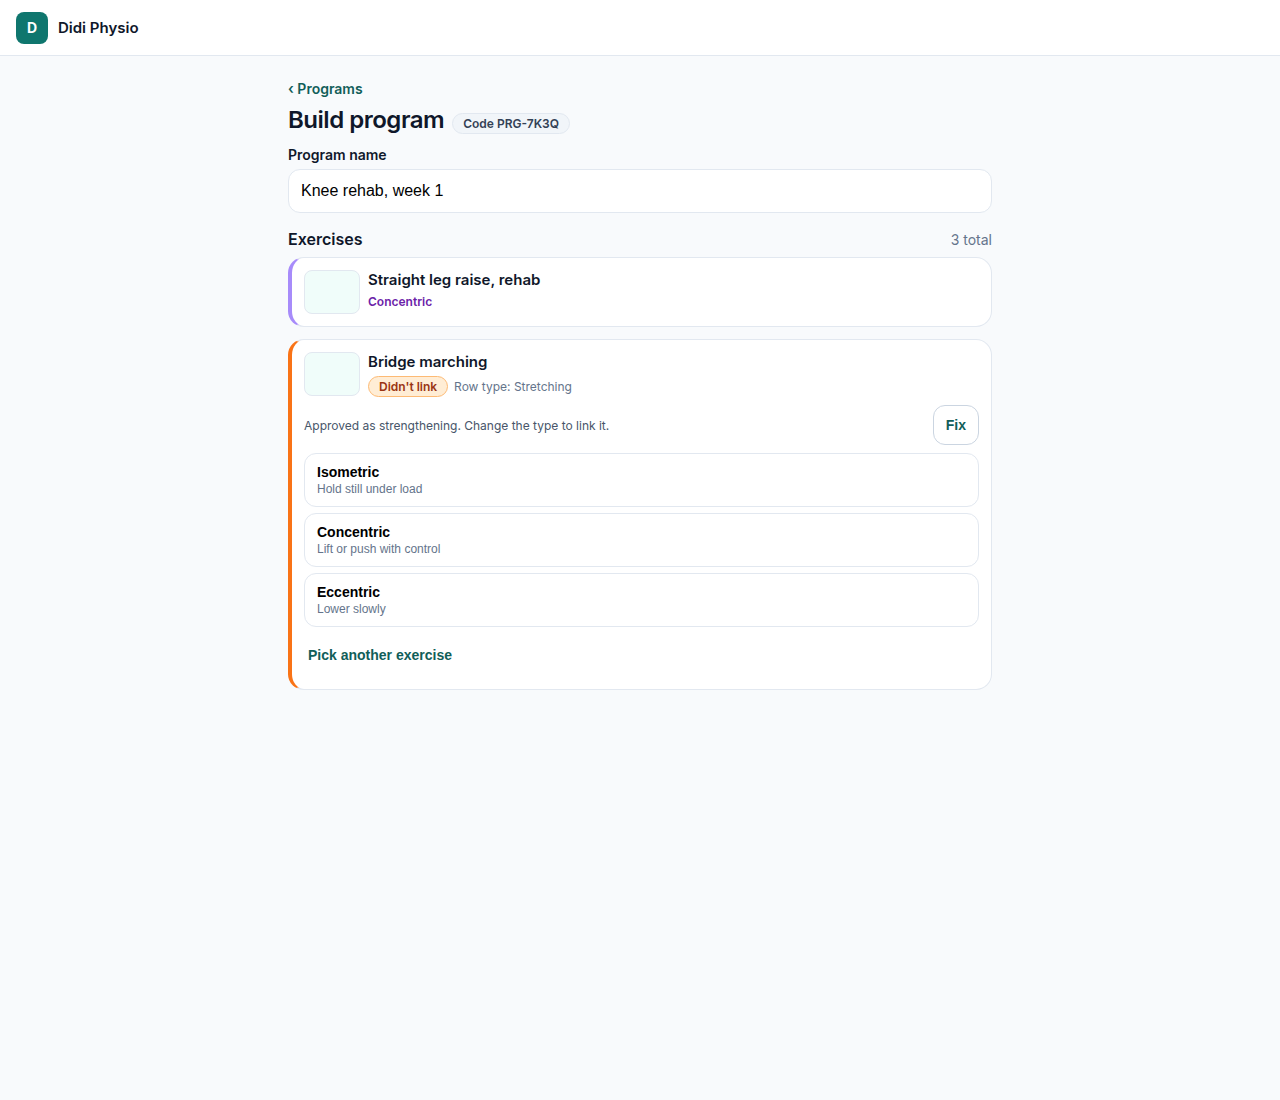
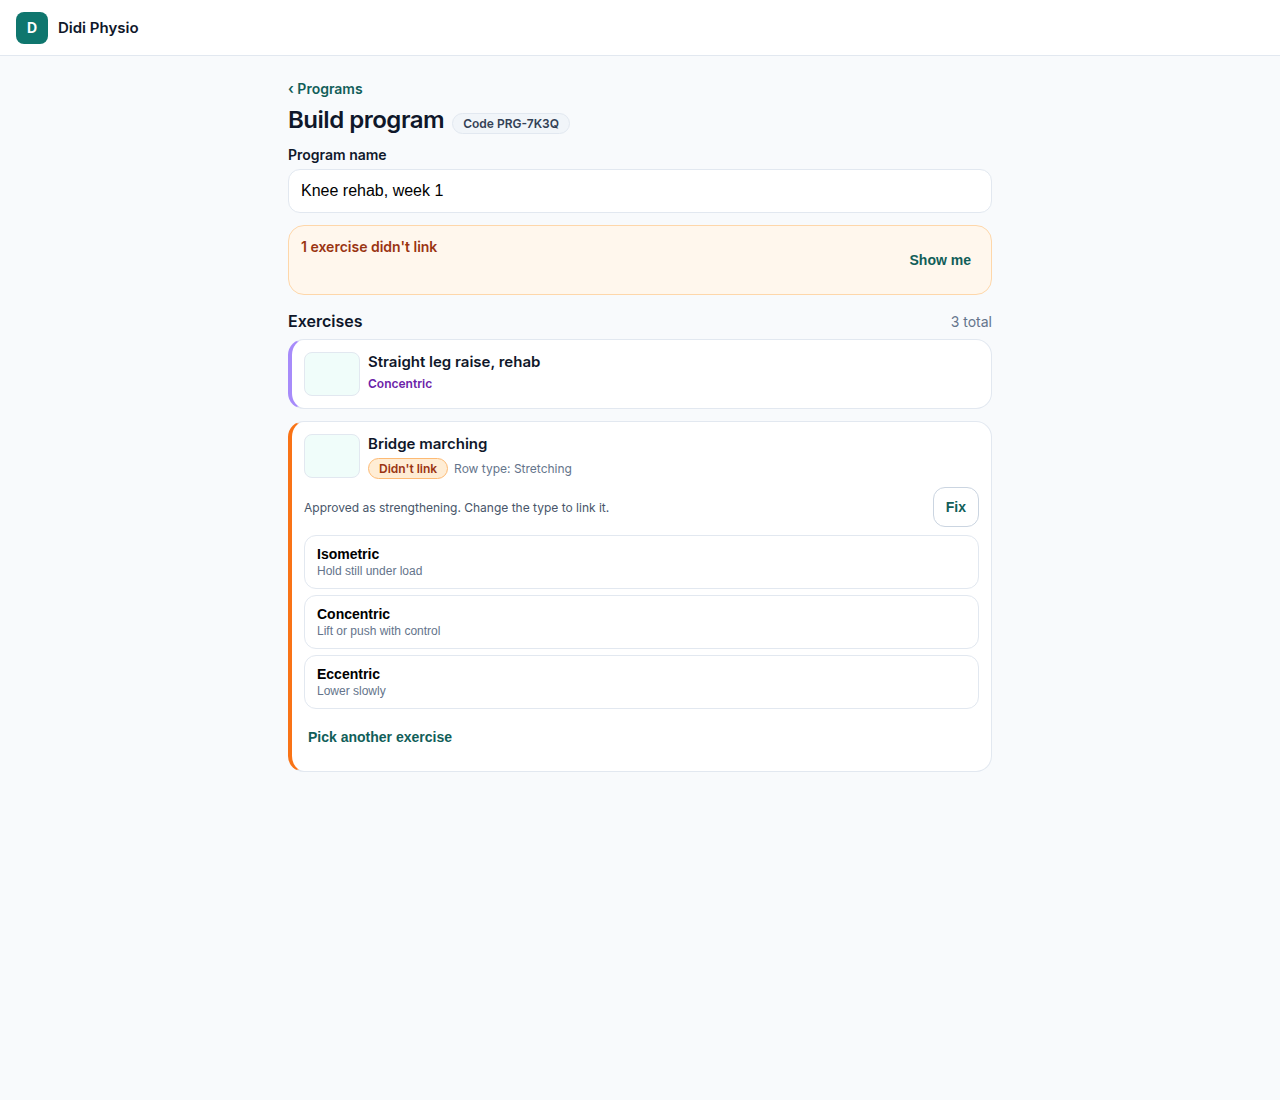
design(DIDI-1105): publish notice T18/T19 and mockup 02 follow-up
Fill the DIDI-1186 publish notice body for mixed and
didn't-link-only lists (T18, T19) and record Fix for {name},
per DIDI-1105 comment a3f73814. Re-capture mockup 02 with the
builder banner visible. Add a trailing newline to the mockups
.gitignore. Update the programs States overview row.

No product behaviour change: publish stays blocked while any
awaiting_approval or type_mismatch row remains.

diff --git a/design/app/programs/spec.md b/design/app/programs/spec.md
@@ -30,7 +30,7 @@ Diadem approved this revision on Oct 25, 2026, 7:22 PM ET ("v12 is approved"), i
 | Library update prompt | "Library update for {exercise}": "Programs aren't updated on their own. Update it, or keep your original." with "Update to vN" / "Keep my original" |
 | Publish to the live link? | Program card (name, code, exercise count); "Program name (required)" field on a first publish or when the program has no name; "First publish" or "Changes since {time}"; Share link with Copy (or "No link yet..." on a first publish or closed link); Link expires (1 week, 30 days, 90 days, 1 year default, Never, Pick a date); "Publish now" / "Not yet" |
 | Name required | Empty name: red field, "Add a program name to publish. Use something you will recognise, not the patient's name.", Publish now disabled |
-| Placeholders block publish (DIDI-1186) | Any exercise row still a placeholder ("Pending review"): the Publish sheet shows an amber notice listing each placeholder with "Review draft" and Remove, and Publish now is disabled. Same treatment on first publish, republish and Use for a patient. See "Publish blocked by placeholders (DIDI-1186)" below |
+| Placeholders block publish (DIDI-1186) | Any exercise row still a placeholder: the Publish sheet shows an amber notice listing each placeholder, and Publish now is disabled. **awaiting_approval** rows use **Pending review**, **Review draft**, and Remove; **type_mismatch** rows use **Didn't link**, **Fix**, and Remove ([program-type-mismatch/spec.md](../program-type-mismatch/spec.md)). Notice body wording depends on list mix (**T18**, **T19**, `a3f73814`). Same treatment on first publish, republish and Use for a patient. See "Publish blocked by placeholders (DIDI-1186)" below |
 | Use for a patient | From a routine: the copy is created (code, routine name prefilled) and the practitioner lands on the Publish sheet. Publish now creates the link; Not yet keeps it as a draft ("Kept as a draft. Find it in Programs by name or code {code}.") and it shows in Programs as "Not published yet" |
 | Sent copy | Opening a sent program from Programs edits only that patient's copy |
 | Delete | Sheet "Delete this program?": moves to Recently deleted, restorable for 30 days, closes its share link |
@@ -210,8 +210,10 @@ The existing "Publish to the live link?" sheet (WebAppClickableConcept.tsx :1381
 
 Notice contents, in order:
 1. Heading with the alert icon (I.alert): "Approve or remove placeholders to publish".
-2. Body: "{n} exercises are placeholders. Approve each draft or remove it from this program, then publish." For one: "One exercise is a placeholder. Approve each draft or remove it from this program, then publish."
-   **Open:** When the list mixes `awaiting_approval` and `type_mismatch` placeholders, this body may read awkwardly for didn't-link rows. Do not reword until Diadem approves; see [program-type-mismatch/spec.md](../program-type-mismatch/spec.md).
+2. Body (depends on placeholder mix; publish stays blocked until the list is empty):
+   - **Awaiting only** (every row `awaiting_approval`): approved Nov 8 body unchanged. "{n} exercises are placeholders. Approve each draft or remove it from this program, then publish." For one: "One exercise is a placeholder. Approve each draft or remove it from this program, then publish."
+   - **Mixed** (at least one `awaiting_approval` and at least one `type_mismatch`): same approved body as above, then a second sentence: **Fix or remove the exercises that didn't link.** (**T18**, **Designer pick**, `a3f73814` on DIDI-1105).
+   - **Didn't-link only** (every row `type_mismatch`, no `awaiting_approval`): **Fix or remove the exercises that didn't link, then publish.** (**T19**, **Designer pick**, `a3f73814` on DIDI-1105).
 3. One list item per placeholder, in **builder order**. Same row layout for every placeholder. Badge and link action depend on `placeholder_state` ([program-type-mismatch/spec.md](../program-type-mismatch/spec.md), **Designer pick** `b650a678` on DIDI-1105): **awaiting_approval** keeps **Pending review**, **Review draft**, and Remove; **type_mismatch** shows **Didn't link**, **Fix** (in the **Review draft** slot), and Remove. **Fix** closes the sheet and opens the builder with that row's **Fix** panel expanded.
 4. Republish only: "Not live yet. Your patient still sees the version published {pub.at}."
 
@@ -244,7 +246,7 @@ Tokens are existing ones from design/reference/web-app/generated/WebAppClickable
 - **Focus after Remove:** moves to the next placeholder's "Review draft" or "Fix" (or the previous one if it was the last row). When the list empties, focus moves to the notice heading ("No placeholders left. You can publish.", `tabIndex={-1}`) so the practitioner hears the state, then continues to Publish now.
 - **Focus after Review draft:** the draft opens for review. On return to the sheet, focus goes back to that row's "Review draft" if it is still a placeholder; if it was approved, focus follows the Remove rule above.
 - **Focus after Fix** (`type_mismatch` only, **Designer pick**, `b650a678`): the sheet closes and focus moves to that row's **Fix** control in the builder with the inline panel open. Returning to the publish sheet later follows the existing sheet open focus rule.
-- **Accessible names:** "Review draft for {name}"; **Fix for {name}** on `type_mismatch` rows (**Designer pick**, `b650a678`); Remove uses the existing "Remove {name}"; the notice is named by its heading "Approve or remove placeholders to publish" (or "No placeholders left. You can publish.").
+- **Accessible names:** "Review draft for {name}"; **Fix for {name}** on `type_mismatch` rows (**Designer pick**, `a3f73814`); Remove uses the existing "Remove {name}"; the notice is named by its heading "Approve or remove placeholders to publish" (or "No placeholders left. You can publish.").
 - No automatic approval, omission or publication anywhere in this flow.
 
 ### Approved copy (Diadem, Nov 8, 2026, 1:56 PM ET)
@@ -252,12 +254,14 @@ Tokens are existing ones from design/reference/web-app/generated/WebAppClickable
 | Element | String |
 | -- | -- |
 | Notice heading | Approve or remove placeholders to publish |
-| Notice body, {n} | {n} exercises are placeholders. Approve each draft or remove it from this program, then publish. |
-| Notice body, one | One exercise is a placeholder. Approve each draft or remove it from this program, then publish. |
+| Notice body, {n} (awaiting only) | {n} exercises are placeholders. Approve each draft or remove it from this program, then publish. |
+| Notice body, one (awaiting only) | One exercise is a placeholder. Approve each draft or remove it from this program, then publish. |
+| Notice body, mixed | Approved body above, then **Fix or remove the exercises that didn't link.** (**T18**, **Designer pick**, `a3f73814`) |
+| Notice body, didn't-link only | Fix or remove the exercises that didn't link, then publish. (**T19**, **Designer pick**, `a3f73814`) |
 | Row action | Review draft (`awaiting_approval` only) |
 | Row action, accessible name | Review draft for {name} |
 | Row action (`type_mismatch`) | Fix (reuses builder **Fix**, [program-type-mismatch/spec.md](../program-type-mismatch/spec.md) **T4**). **Designer pick**, `b650a678` |
-| Row action, accessible name (`type_mismatch`) | Fix for {name}. **Designer pick**, `b650a678` |
+| Row action, accessible name (`type_mismatch`) | Fix for {name}. **Designer pick**, `a3f73814` |
 | After a removal (live region) | Removed {name} from this program. |
 | List empty | No placeholders left. You can publish. |
 
@@ -1084,7 +1088,8 @@ Not printed (DIDI-1192, CTO, Nov 9, 2026): "This link works until {exp.date}." a
 
 ## Changes
 
-- **Nov 21, 2026**: DIDI-1105 PR #142 QA R1. Publish notice: `type_mismatch` rows use **Didn't link**, **Fix**, and Remove in builder order (**Designer pick**, `b650a678`); notice body **Open** when mixed. https://linear.app/didi-build/issue/DIDI-1105
+- **Nov 21, 2026**: DIDI-1105 follow-up. Publish notice body **T18** / **T19** (`a3f73814`); States overview lists both placeholder kinds. https://linear.app/didi-build/issue/DIDI-1105
+- **Nov 21, 2026**: DIDI-1105 PR #142 QA R1. Publish notice: `type_mismatch` rows use **Didn't link**, **Fix**, and Remove in builder order (**Designer pick**, `b650a678`). https://linear.app/didi-build/issue/DIDI-1105
 - **Nov 21, 2026**: DIDI-1105 cross-reference. Programs list flags for type-mismatch placeholders ("1 exercise didn't link" / "{n} exercises didn't link") and builder behaviour live in [program-type-mismatch/spec.md](../program-type-mismatch/spec.md). https://linear.app/didi-build/issue/DIDI-1105
 - **Nov 10, 2026**: DIDI-1192. Diadem approved E7: "Yes, approve E7" (12:08 AM ET), and "Video", "Previous" and "Next" with the print detail (12:09 AM ET). The link page shows one carousel per exercise (the start to end loop, then Start, then End) with round dots, a play-triangle dot, a separate focus ring and subtle chevrons from 1024 px. On phone: title, carousel, dose, notes. From 1024 px: text left, carousel right, page 64rem (was 42rem). The dose is three lines with bold numbers, frequency last. Print and PDF: text, Start, End in three columns, "Images didn't load." across the image columns, no video, no controls, no expiry line. Missing start or end images block publish on the program and routine sheets, server-enforced, Remove only (CTO rulings, DIDI-1193; copy approved Nov 9, 11:31 AM ET). Supersedes variant D (Nov 9, 11:31 AM ET). https://linear.app/didi-build/issue/DIDI-1192, https://linear.app/didi-build/issue/DIDI-594
 

diff --git a/design/app/program-type-mismatch/spec.md b/design/app/program-type-mismatch/spec.md
@@ -48,6 +48,15 @@ Recorded under the standing rule above. Not Diadem's verbatim words.
 | Reverse mismatch reason (**T16**) | **Approved as stretching. Change the type to link it.** Mirrors approved **T3** |
 | Type choice accessible name | Link {exercise} as {type} |
 | **Show me** accessible name | Show me exercises that didn't link |
+
+### Designer picks (DIDI-1105 comment `a3f73814`)
+
+Recorded under the standing rule above. Not Diadem's verbatim words. No behaviour change: publish stays blocked while any placeholder or didn't-link row remains (DIDI-1186).
+
+| Topic | Designer pick (`a3f73814`) |
+| -- | -- |
+| Publish notice body, mixed list | Keep the approved DIDI-1186 notice body, then add second sentence **T18** |
+| Publish notice body, every row `type_mismatch` | Body is **T19** only (no approved draft-approval sentence) |
 | Publish sheet **Fix** accessible name | Fix for {name} (visible label **Fix**, **T4**) |
 
 ## API signal (DIDI-1106, not designed here)
@@ -90,6 +99,7 @@ Linked rows omit the field. Until this spec merged, `request_closed` had no UI (
 | `request_closed` | **Out of scope / unapproved UI.** Per DIDI-1106 comment `56b379c5`, render like `awaiting_approval` until a future spec covers it. No copy or layout for `request_closed` in this PR. |
 | No patient information | Same as programs spec. No patient names in banner, row, toast, or flag. |
 | Publish sheet **Fix** | For `type_mismatch` rows only (**Designer pick**, `b650a678`). Same slot and styling as **Review draft** on `awaiting_approval` rows. Closes the publish sheet and navigates to the builder with that row scrolled into view and **Fix** expanded. Remove unchanged. |
+| Publish notice body | See [programs/spec.md](../programs/spec.md#publish-blocked-by-placeholders-didi-1186). **Awaiting only:** approved Nov 8 body unchanged. **Mixed** (`awaiting_approval` and `type_mismatch`): approved body plus **T18** (**Designer pick**, `a3f73814`). **Every row `type_mismatch`:** **T19** only (**Designer pick**, `a3f73814`). |
 
 ### Example (documented in mockups)
 
@@ -137,6 +147,8 @@ Derived from revision `466879152478384129` (`SkippedRowCore.tsx`, `PhysioShell.t
 | T15 | {n} exercises didn't link | Programs list card flag (more than one) | 12:57 AM EST (`c8a1509f`) |
 | T16 | Approved as stretching. Change the type to link it. | Reason line (stretching approved, strengthening row). **Designer pick** (`b650a678`) | Nov 21, 2026 |
 | T17 | Fix | Publish sheet link action for `type_mismatch` rows (reuses builder **T4**). **Designer pick** (`b650a678`) | Nov 21, 2026 |
+| T18 | Fix or remove the exercises that didn't link. | Second sentence on publish notice body when the list is mixed | **Designer pick** (`a3f73814`) |
+| T19 | Fix or remove the exercises that didn't link, then publish. | Publish notice body when every placeholder row is `type_mismatch` | **Designer pick** (`a3f73814`) |
 
 Type names **Isometric**, **Concentric**, **Eccentric**, **Stretching** reuse existing copy (`TYPE_LABELS` / programs builder).
 
@@ -166,14 +178,14 @@ Reason lines: use **T3** when the approved exercise category is strengthening an
 | -- | -- |
 | `request_closed` row UI | Render like `awaiting_approval` per DIDI-1106 comment `56b379c5` until a separate design spec covers it. |
 
-### Accessible names (**Designer pick**, `b650a678`)
+### Accessible names
 
-| Control | Accessible name |
-| -- | -- |
-| Type choice (builder Fix panel) | Link {exercise} as {type} |
-| **Show me** (banner) | Show me exercises that didn't link |
-| **Fix** (publish sheet row) | Fix for {name} |
-| Programs list flag | Same as visible flag text (**T14** / **T15**) |
+| Control | Accessible name | Record |
+| -- | -- | -- |
+| Type choice (builder Fix panel) | Link {exercise} as {type} | **Designer pick** (`b650a678`) |
+| **Show me** (banner) | Show me exercises that didn't link | **Designer pick** (`b650a678`) |
+| **Fix** (publish sheet row) | Fix for {name} | **Designer pick** (`a3f73814`) |
+| Programs list flag | Same as visible flag text (**T14** / **T15**) | Locks **T14** / **T15** |
 
 ## Product direction alignment
 
@@ -205,6 +217,7 @@ Reason lines: use **T3** when the approved exercise category is strengthening an
 | -- | -- | -- |
 | Skipped row after approval | Looked like **Pending review** ("Placeholder. It links to the real exercise once you approve the draft.") even when the draft was already approved (baseline exploration) | `type_mismatch` rows show **Didn't link**, row type, reason (**T3** or **T16**), and **Fix** |
 | Publish sheet placeholder list | Every placeholder showed **Pending review** and **Review draft** (DIDI-1186) | `type_mismatch` rows show **Didn't link**, publish-sheet **Fix**, and **Remove** (**Designer pick**, `b650a678`) |
+| Publish notice body with didn't-link rows | Draft-approval body only (awkward for didn't-link rows until follow-up) | Mixed: approved body plus **T18**; all `type_mismatch`: **T19** (**Designer pick**, `a3f73814`) |
 | Practitioner feedback | None | Variant **B** banner plus compact row |
 | Banner body | Exploration proposed a second line about the patient seeing a placeholder | **Removed** in lock `7e4a9711`. Heading only (**T5** / **T6**) plus **Show me** |
 | Programs list | No flag for skipped link | Card flag reuses banner heading copy (**T14** / **T15**) |
@@ -220,7 +233,7 @@ Full-width phone captures (390 px). Desktop uses the same components in the prog
 | State | Phone (390 px) | Desktop (1280 px) | Notes |
 | -- | -- | -- | -- |
 | 01 builder banner plus compact row | [phone](mockups/01-builder-banner-phone.png) | (same layout; phone capture only) | Heading **T5** only plus **Show me**; no dropped banner body. Row **T1** to **T4**. Capture width 390 px. |
-| 02 fix expanded | [phone](mockups/02-builder-fix-expanded-phone.png) | [desktop](mockups/02-builder-fix-expanded-desktop.png) | **Fix** open; type choices **T8** to **T11** and **Pick another exercise**. Source layout: MagicPath revision `466879152478384129`. Re-capture with `mockups/capture-mockups.mjs` when the board changes. |
+| 02 fix expanded | [phone](mockups/02-builder-fix-expanded-phone.png) | [desktop](mockups/02-builder-fix-expanded-desktop.png) | **Fix** open with builder banner **T5** still visible; type choices **T8** to **T11** and **Pick another exercise**. Re-capture with `mockups/capture-mockups.mjs` when the board changes. |
 
 No gallery components in the Physio POC app ([DIDI-1105](https://linear.app/didi-build/issue/DIDI-1105) design-as-code exception).
 
@@ -235,7 +248,8 @@ No gallery components in the Physio POC app ([DIDI-1105](https://linear.app/didi
 7. Programs card flag reuses banner heading strings.
 8. Link toast with **Undo** restores skipped state.
 9. Publish sheet lists `type_mismatch` placeholders with **Didn't link**, publish-sheet **Fix**, and **Remove** (**Designer pick**, `b650a678`).
-10. Reverse mismatch reason **T16** and publish-sheet accessible names (**Designer pick**, `b650a678`).
+10. Reverse mismatch reason **T16** and builder or banner accessible names (**Designer pick**, `b650a678`).
+11. Publish notice body **T18** and **T19**; publish-sheet **Fix for {name}** (**Designer pick**, `a3f73814`).
 
 ## Build notes
 
@@ -247,6 +261,7 @@ No gallery components in the Physio POC app ([DIDI-1105](https://linear.app/didi
 
 ## Changes
 
+- **Nov 21, 2026**: DIDI-1105 follow-up (`design/DIDI-1105-followup`). Publish notice **T18** and **T19**; **Fix for {name}** via `a3f73814`. Mockup 02 with banner visible. https://linear.app/didi-build/issue/DIDI-1105
 - **Nov 21, 2026**: DIDI-1105 PR #142 QA R1. Publish-sheet **Fix** (`b650a678`); **T16** and a11y picks cite `b650a678`; banner body drop cites `7e4a9711`; **T14** at 12:57 AM EST (`c8a1509f`); mockups 01 and 02 re-rendered at 390 px (and 02 at 1280 px). https://linear.app/didi-build/issue/DIDI-1105
 - **Nov 21, 2026**: DIDI-1105 follow-up (PR #142). CTO locks `2bdbb75b`, `7e4a9711`, `c8a1509f` recorded. https://linear.app/didi-build/issue/DIDI-1105
 - **Nov 21, 2026**: DIDI-1105. Diadem approved variant B, strings T1 to T15, Q22 dose preservation, Q23 Programs card flag, banner plural (12:57 AM EST). Spec, mockup reference, and product direction alignment. Unblocks [DIDI-1106](https://linear.app/didi-build/issue/DIDI-1106). https://linear.app/didi-build/issue/DIDI-1105
